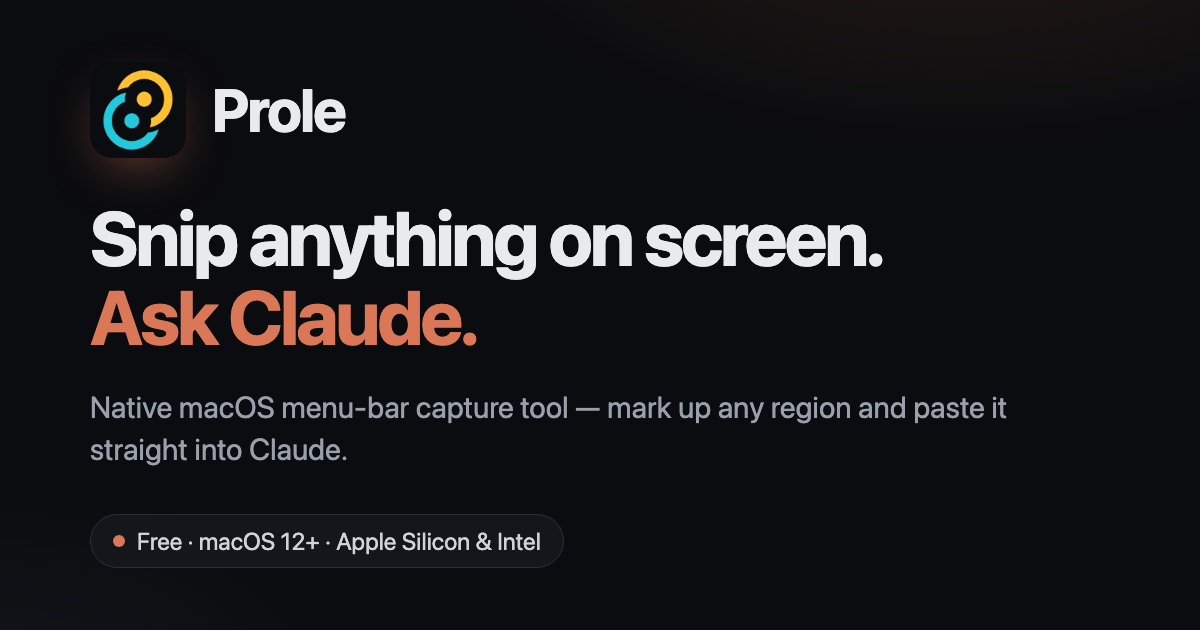
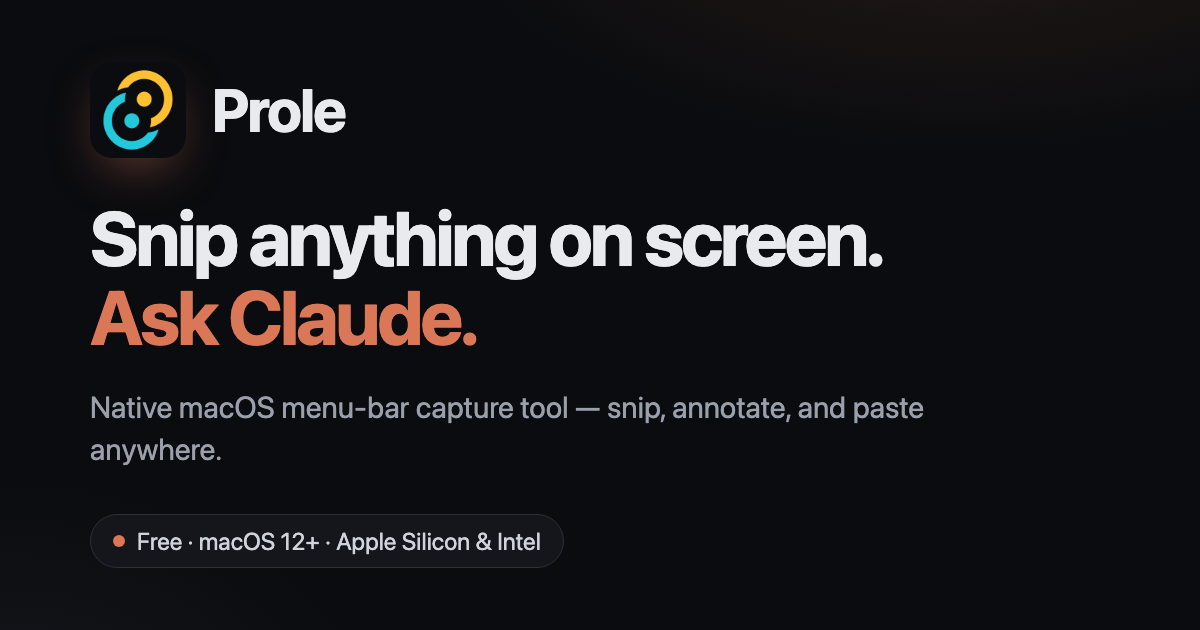
fix(prole-site): correct copy — text-tool annotation, not a caption box; paste anywhere
The editor has no 'Message to Claude' box; the text tool writes directly on the
snip (like the arrow), and Copy puts the annotated image only on the clipboard.
Reworded hero, how-it-works, meta/OG/Twitter, JSON-LD, FAQ, llms.txt, and OG card
to match — and to note the image pastes into Claude OR anywhere (not Claude-only).

Changed region(s): [[0.0617, 0.6937, 0.2775, 0.754], [0.4933, 0.6333, 0.8633, 0.6635]]

diff --git a/apps/prole-site/index.html b/apps/prole-site/index.html
@@ -7,7 +7,7 @@
     <title>Prole — Snip anything on screen, ask Claude (macOS)</title>
     <meta
       name="description"
-      content="Prole is a free native macOS menu-bar app. Snip any region of your screen, mark it up, type a question, and paste a single composite image straight into Claude. Apple Silicon and Intel."
+      content="Prole is a free native macOS menu-bar app. Snip any region of your screen, annotate it — including a text tool to write right on the snip — and paste the image into Claude, or anywhere you can paste an image. Apple Silicon and Intel."
     />
     <meta
       name="keywords"
@@ -25,7 +25,7 @@
     <meta property="og:title" content="Prole — Snip anything on screen, ask Claude" />
     <meta
       property="og:description"
-      content="Free native macOS menu-bar capture tool. Mark up any region of your screen, type a question, and paste it straight into Claude."
+      content="Free native macOS menu-bar capture tool. Annotate any region of your screen — including text right on the snip — and paste it into Claude, or anywhere you can paste an image."
     />
     <meta property="og:image" content="https://prole.jeffrey.build/assets/og.png" />
     <meta property="og:image:width" content="1200" />
@@ -38,7 +38,7 @@
     <meta name="twitter:title" content="Prole — Snip anything on screen, ask Claude" />
     <meta
       name="twitter:description"
-      content="Free native macOS menu-bar capture tool. Mark up any region of your screen and ask Claude."
+      content="Free native macOS menu-bar capture tool. Annotate any region of your screen and paste it into Claude — or any app."
     />
     <meta name="twitter:image" content="https://prole.jeffrey.build/assets/og.png" />
     <meta name="twitter:image:alt" content="Prole — snip anything on screen, ask Claude" />
@@ -60,12 +60,12 @@
         "softwareVersion": "0.1.0",
         "image": "https://prole.jeffrey.build/assets/og.png",
         "screenshot": "https://prole.jeffrey.build/assets/og.png",
-        "description": "Prole is a free native macOS menu-bar app for capturing any region of your screen, marking it up, and asking Claude about it. Draw a rectangle around anything, annotate with arrows, pen and text, type a question, and paste a single composite image straight into the Claude desktop or web app.",
+        "description": "Prole is a free native macOS menu-bar app for capturing any region of your screen, annotating it, and asking Claude about it. Draw a rectangle around anything, annotate with arrows, pen, and a text tool that writes right on the snip, then copy the image and paste it into Claude — or any app that accepts a pasted image.",
         "featureList": [
           "Snip any region of any app from the menu bar, a floating button, or a global hotkey",
-          "Markup: rectangles, arrows, freehand pen, text labels",
-          "Type a question that travels with the snip",
-          "Copies the annotated image and note together for pasting into Claude"
+          "Markup: rectangles, arrows, freehand pen, and a text tool that writes on the snip",
+          "Write your question directly on the snip with the text tool",
+          "Copies the annotated image to your clipboard to paste into Claude or any app"
         ],
         "offers": { "@type": "Offer", "price": "0", "priceCurrency": "USD" },
         "author": { "@type": "Person", "name": "Jeffrey Emakpor" }
@@ -81,7 +81,7 @@
             "name": "What is Prole?",
             "acceptedAnswer": {
               "@type": "Answer",
-              "text": "Prole is a free native macOS menu-bar app that lets you snip any region of your screen, mark it up, type a question, and paste a single composite image into Claude to ask about it."
+              "text": "Prole is a free native macOS menu-bar app that lets you snip any region of your screen, annotate it (including a text tool to write right on the snip), then copy the image and paste it into Claude — or anywhere you can paste an image — to ask about it."
             }
           },
           {
@@ -122,9 +122,10 @@
         <img class="hero-icon" src="/assets/prole-icon.png" alt="Prole app icon" width="96" height="96" />
         <h1>Snip anything on screen.<br />Ask Claude.</h1>
         <p class="lede">
-          Prole lives in your macOS menu bar. Draw a rectangle around <em>anything</em> —
-          mark it up, type your question, and paste a single composite image straight into Claude.
-          No DOM, no extensions. Just pixels and your note.
+          Prole lives in your macOS menu bar. Draw a rectangle around <em>anything</em> on
+          screen, annotate it — arrows, pen, and a text tool that writes right on the snip —
+          then copy the image and paste it into Claude, or anywhere you can paste an image.
+          No DOM, no extensions. Just pixels and your notes.
         </p>
         <div class="cta-row">
           <a class="btn-primary" href="/download/Prole.dmg">
@@ -147,12 +148,12 @@
           <li>
             <span class="step-n">2</span>
             <h3>Mark it up &amp; ask</h3>
-            <p>Rectangles, arrows, freehand pen, text labels. Then type your “Message to Claude” in the caption box.</p>
+            <p>Annotate with rectangles, arrows, and freehand pen — and use the text tool to write your question right on the snip.</p>
           </li>
           <li>
             <span class="step-n">3</span>
-            <h3>Paste into Claude</h3>
-            <p>Hit Copy — the snip and your note land on the clipboard together. Paste into the Claude desktop or web app and ask.</p>
+            <h3>Paste it anywhere</h3>
+            <p>Hit Copy and the annotated image lands on your clipboard. Paste it into Claude to ask — or into ChatGPT, Slack, email, or any app that takes an image.</p>
           </li>
         </ol>
       </section>

diff --git a/apps/prole-site/assets/og-card.html b/apps/prole-site/assets/og-card.html
@@ -38,7 +38,7 @@
       <span class="name">Prole</span>
     </div>
     <h1>Snip anything on screen.<br /><span class="accent">Ask Claude.</span></h1>
-    <p>Native macOS menu-bar capture tool — mark up any region and paste it straight into Claude.</p>
+    <p>Native macOS menu-bar capture tool — snip, annotate, and paste anywhere.</p>
     <div class="chip"><span class="dot"></span> Free · macOS 12+ · Apple Silicon &amp; Intel</div>
   </body>
 </html>